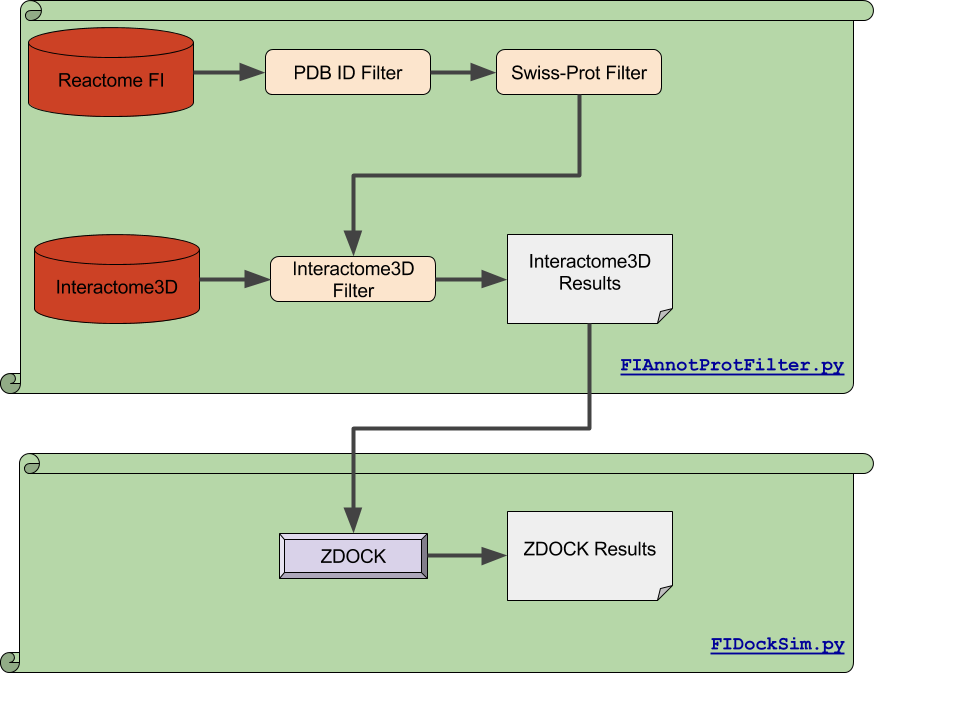
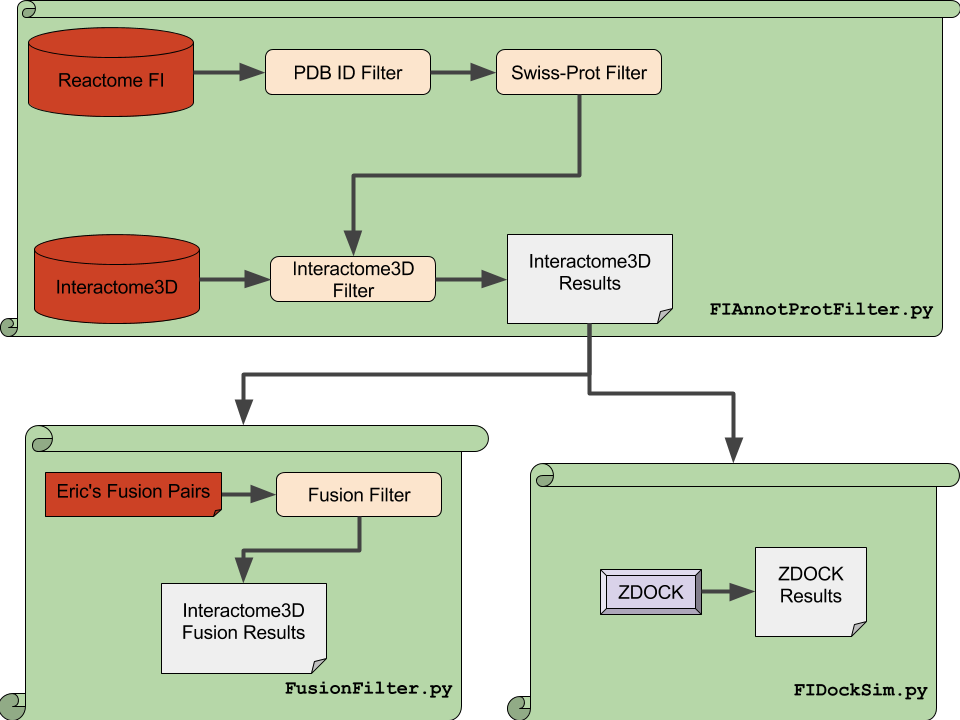
adding fusion filter to interaction output

diff --git a/src/FusionFilter.py b/src/FusionFilter.py
@@ -1,0 +1,119 @@
+
+import os
+import re
+
+FUSION_GENE_CAPTURE = "^\"[0-9]+?\"\s+\"" \
+                      "(?P<gene1>.+?)" \
+                      "\"\s+\".+?\"\s+\".+?\"\s+\".+?\"\s+\"" \
+                      "(?P<gene2>.+?)\""
+
+GENE_PDB_CAPTURE = "^(?P<gene1>[A-Z]+[0-9A-Z]+)," \
+                   "(?P<pdbset1>\[?[',\s0-9A-Z]+\]?)," \
+                   "(?P<gene2>[A-Z]+[0-9A-Z]+)," \
+                   "(?P<pdbset2>\[?[',\s0-9A-Z]+\]?)"
+
+FIINT_CAPTURE = "^(?P<gene1>[A-Z]+[0-9A-Z]+)," \
+                "(?P<swissprot1>[A-Z]+[0-9A-Z]+)," \
+                "(?P<gene2>[A-Z]+[0-9A-Z]+)," \
+                "(?P<swissprot2>[A-Z]+[0-9A-Z]+)," \
+                "(?P<interactome3d>.*)"
+
+PROJ_DIR = "/Users/joshuaburkhart/Research/ReactomePPI"
+OUT_DIR = PROJ_DIR + "/data/output"
+FIINT_FN = OUT_DIR + "/FIInteract.txt"
+ANNOT_PDB_FN = OUT_DIR + "/FIAnnotPdb.txt"
+FUSION_RESULTS_FN = PROJ_DIR + "/gene-fusion-analysis/results/newDescription.txt"
+FIINT_FUSION_INTERSECT_FN = OUT_DIR + "/FIInteractFusionEvents.txt"
+
+fusion_gene_dict = dict()
+gene_pdb_dict = dict()
+fi_interactome_dict= dict()
+
+def string2list(s):
+    return s.replace('[', '') \
+        .replace('\'', '') \
+        .replace(',', '') \
+        .replace(']', '') \
+        .split()
+
+# read FUSION_RESULTS_FN (if it exists)
+if os.path.isfile(FUSION_RESULTS_FN):
+    print("read FUSION_RESULTS_FN...")
+    in_fptr = open(FUSION_RESULTS_FN)
+    while 1:
+        line = in_fptr.readline()
+        if not line:
+            break
+        match = re.match(FUSION_GENE_CAPTURE, line)
+        if match:
+            # store map each gene to fusion event
+            fusion_gene_dict[match.group('gene1')] = "{0}-{1}".format(match.group('gene1'),match.group('gene2'))
+            fusion_gene_dict[match.group('gene2')] = "{0}-{1}".format(match.group('gene1'),match.group('gene2'))
+    # close file
+    in_fptr.close()
+
+# open ANNOT_PDB_FN file
+in_fptr = open(ANNOT_PDB_FN)
+print("read ANNOT_PDB_FN...")
+while 1:
+    line = in_fptr.readline()
+    if not line:
+        break
+    match = re.match(GENE_PDB_CAPTURE, line)
+    if match:
+        # store gene to pdb list map
+        gene_pdb_dict[match.group('gene1')] = string2list(match.group('pdbset1'))
+        gene_pdb_dict[match.group('gene2')] = string2list(match.group('pdbset2'))
+# close file
+in_fptr.close()
+
+# open FIINT_FN file
+in_fptr = open(FIINT_FN)
+print("read FIINT_FN...")
+while 1:
+    line = in_fptr.readline()
+    if not line:
+        break
+    match = re.match(FIINT_CAPTURE, line)
+    if match:
+        fi_interactome_dict[match.group('gene1')] = (match.group('gene1'),
+                                   match.group('swissprot1'),
+                                   match.group('gene2'),
+                                   match.group('swissprot2'),
+                                   match.group('interactome3d'))
+        fi_interactome_dict[match.group('gene2')] = (match.group('gene1'),
+                                   match.group('swissprot1'),
+                                   match.group('gene2'),
+                                   match.group('swissprot2'),
+                                   match.group('interactome3d'))
+# close file
+in_fptr.close()
+
+intersection = fusion_gene_dict.keys() & gene_pdb_dict.keys() & fi_interactome_dict.keys()
+print("intersection yields {0} genes...".format(len(intersection)))
+
+if len(intersection) > 0:
+    with open(FIINT_FUSION_INTERSECT_FN, 'w') as out_fptr:
+        out_fptr.write("FUSION EVENT,INTERACTION AFFECTED,"
+                       "GENE 1 NAME, GENE 1 SWISSPROT, GENE 1 PDB SET,"
+                       "GENE 2 NAME, GENE 2 SWISSPROT, GENE 2 PDB SET,"
+                       "Interactome3D Result\n")
+    # the thought is to later report only maximum pdb-pdb zdock scores (so as to fit them in one row) and link them to their zdock.out
+    for gene in intersection:
+        print("producing row for {0} with reported interaction {1}...".format(gene,fi_interactome_dict[gene]))
+        with open(FIINT_FUSION_INTERSECT_FN, 'a') as out_fptr:
+            out_fptr.write("F {0},I {1},{2},{3},{4},{5},{6},{7},{8}\n".format(
+                fusion_gene_dict[gene].replace(',','~'),                              #FUSION EVENT
+                "{0}-{1}".format(gene,fi_interactome_dict[gene][2]).replace(',','~'), #INTERACTION AFFECTED
+                gene.replace(',','~'),                                                #GENE 1 NAME
+                fi_interactome_dict[gene][1].replace(',','~'),                        #GENE 1 SWISSPROT
+                '~'.join(map(str,gene_pdb_dict[gene])),                               #GENE 1 PDB SET
+                fi_interactome_dict[gene][2].replace(',','~'),                        #GENE 2 NAME
+                fi_interactome_dict[gene][3].replace(',','~'),                        #GENE 2 SWISSPROT
+                '~'.join(map(str,gene_pdb_dict[fi_interactome_dict[gene][2]])),       #GENE 2 PDB SET
+                fi_interactome_dict[gene][4].replace(',','~')                         #Interactome3D Result
+            ))
+
+
+
+
